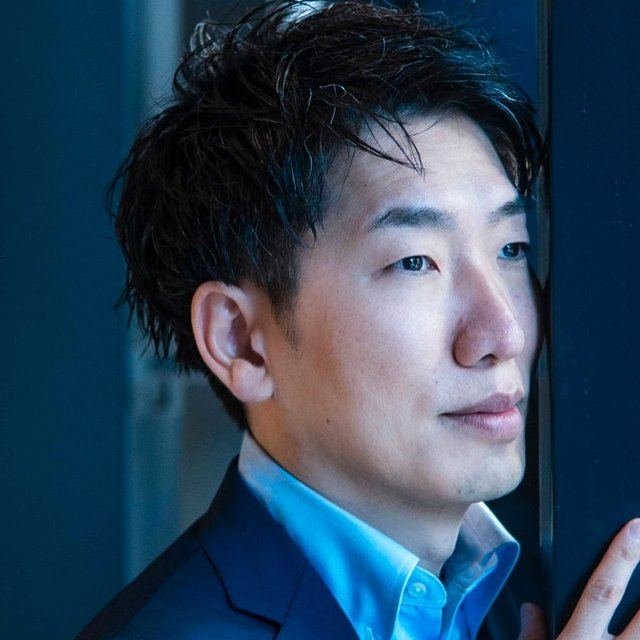
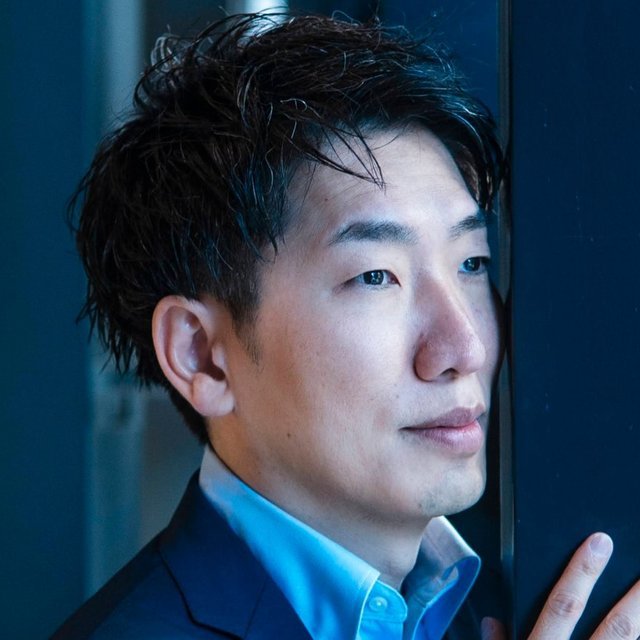
Add files via upload

diff --git a/index.html b/index.html
@@ -238,6 +238,9 @@ a{color:inherit}
 .final h2{font-size:clamp(1.5rem,5vw,2.1rem)}
 .final p.body{margin-top:1.6em;font-family:var(--serif);font-size:1.1rem;line-height:2.1}
 .final .btn{margin-top:2em}
+.final__in{max-width:980px;margin:0 auto;display:grid;gap:36px;align-items:center}
+.final__photo{width:100%;height:auto;max-width:300px;aspect-ratio:4/5;object-fit:cover;margin:0 auto;border-radius:4px}
+@media(min-width:900px){.final__in{grid-template-columns:380px 1fr;gap:72px}.final__photo{max-width:none}.final{text-align:left}}
 
 /* ---------- フッター ---------- */
 .footer{padding:40px 20px 120px;text-align:center;font-size:.85rem;color:var(--muted);background:var(--paper);border-top:1px solid var(--line)}
@@ -537,11 +540,14 @@ dialog::backdrop{background:rgba(249,250,251,.75);backdrop-filter:blur(4px)}
 
 <!-- ⑩ 最後の申込み -->
 <section class="sec final" id="contact">
-  <div class="narrow">
-    <h2>まずは60分、話してみませんか。</h2>
-    <p class="body"><span class="ph">大丈夫。</span><span class="ph">まとまっていなくていいです。</span><br><span class="ph">「このままでいいのかな」という感覚だけ、</span><span class="ph">持ってきてください。</span></p>
-    <a class="btn btn--lg" href="#apply" data-open="apply" data-cta="final">無料オリエンテーションを申し込む</a>
-    <p class="cta-note">オンラインで60分・無料。無理な勧誘や引き止めは一切行いません。</p>
+  <div class="final__in">
+    <img class="final__photo" src="smile.jpg" alt="笑顔の星野直道の写真です" width="880" height="1100" loading="lazy">
+    <div class="final__text">
+      <h2><span class="ph">まずは60分、</span><span class="ph">話してみませんか。</span></h2>
+      <p class="body"><span class="ph">大丈夫。</span><span class="ph">まとまっていなくていいです。</span><br><span class="ph">「このままでいいのかな」</span><span class="ph">という感覚だけ、</span><span class="ph">持ってきてください。</span></p>
+      <a class="btn btn--lg" href="#apply" data-open="apply" data-cta="final">無料オリエンテーションを申し込む</a>
+      <p class="cta-note">オンラインで60分・無料。無理な勧誘や引き止めは一切行いません。</p>
+    </div>
   </div>
 </section>
 </main>
